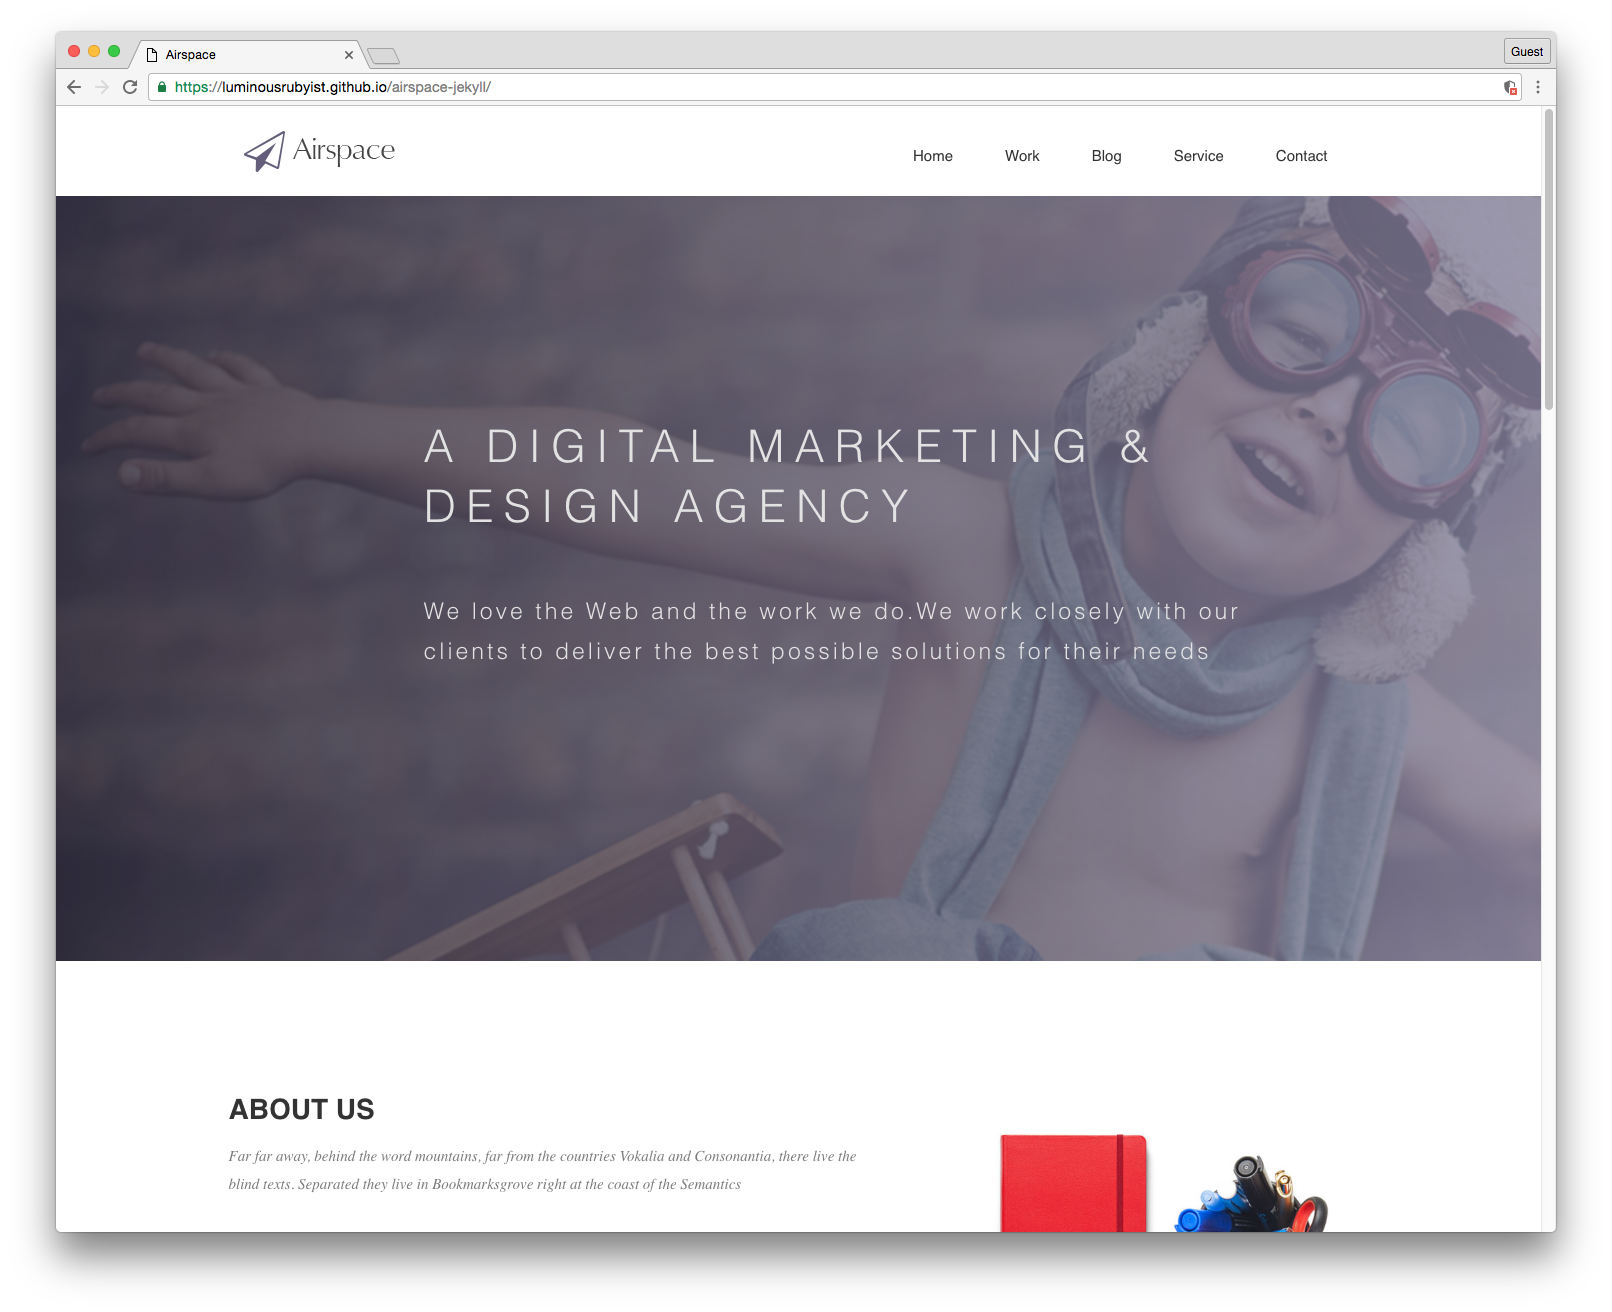
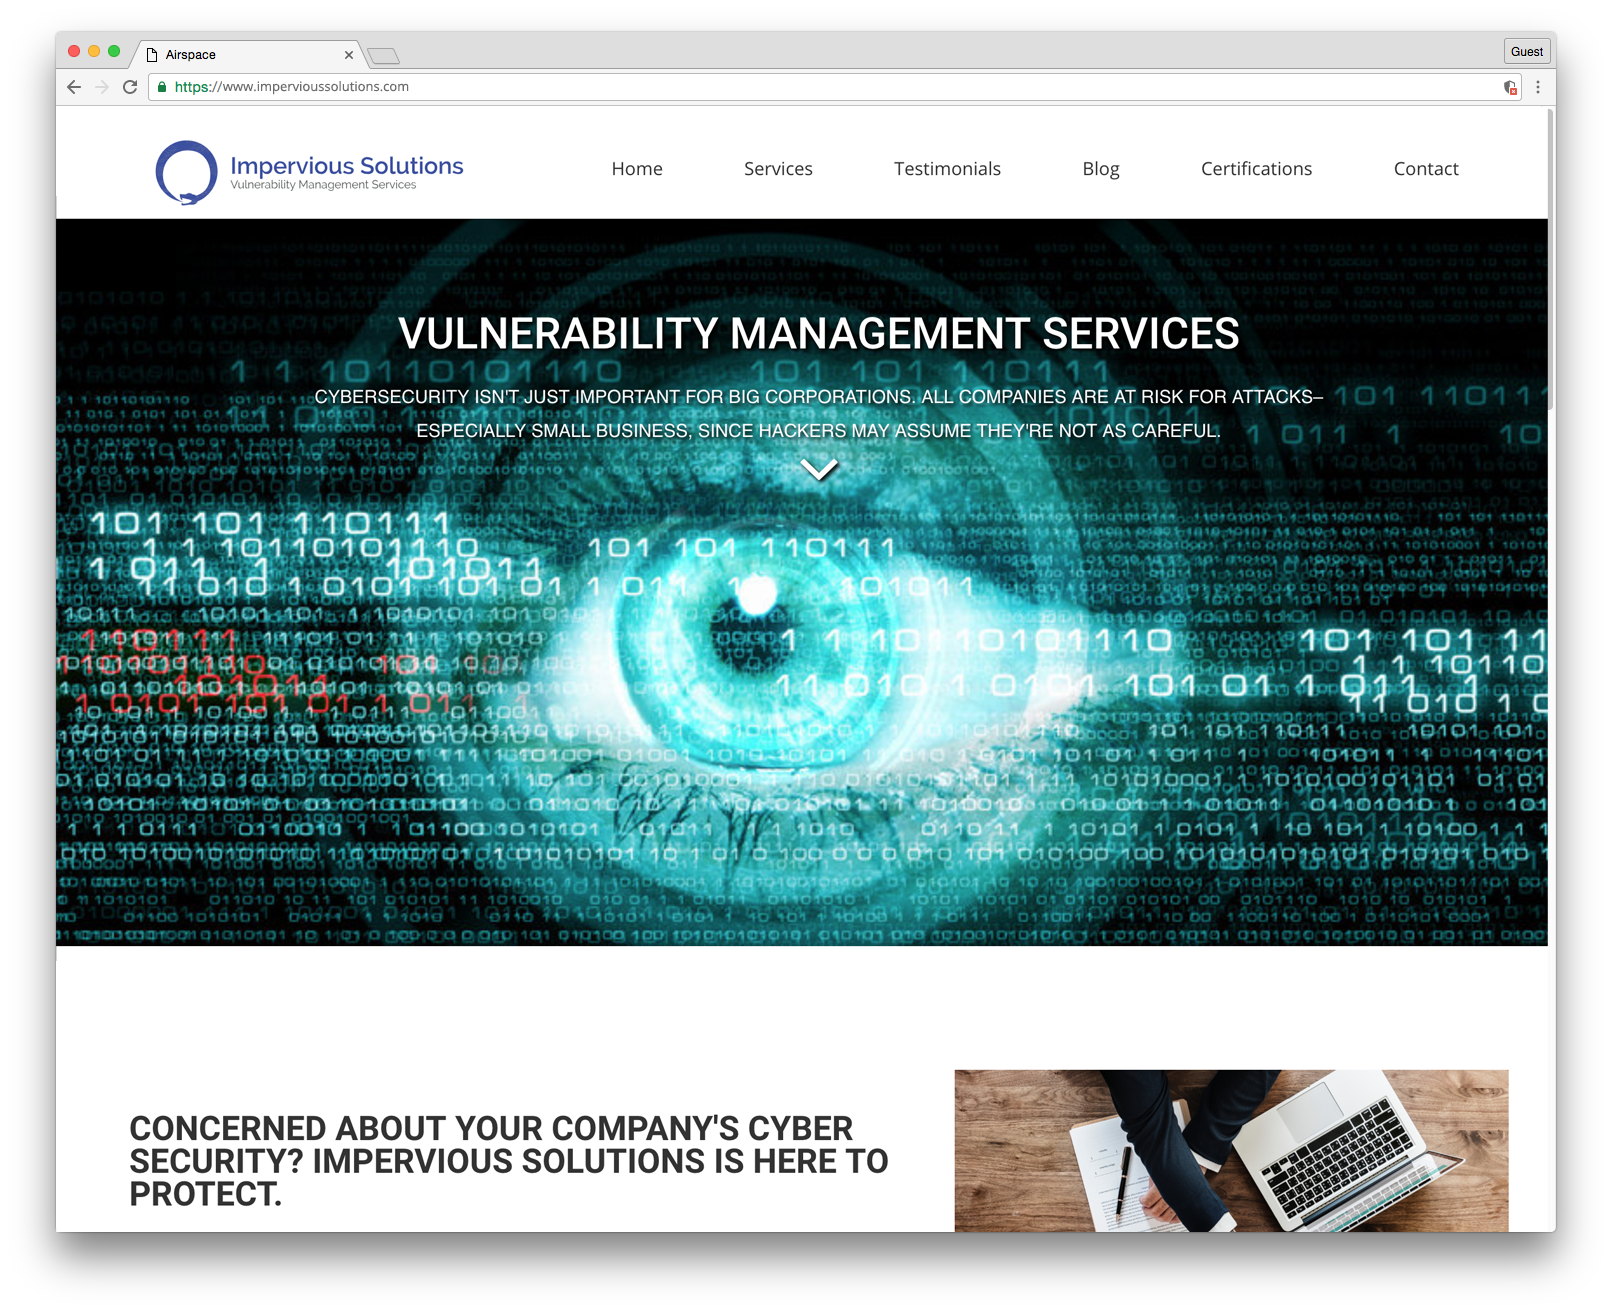
updated readme file

diff --git a/README.md b/README.md
@@ -1,12 +1,7 @@
-# _Airspace_ for Jekyll
+# Custom Jekyll Website for Impervious Solutions
 
-![screenshot](screenshots/home.png 'Description goes here')
+![screenshot](screenshots/home.png 'Custom Jeckyll website for Impervious Solutions')
 
-This Jekyll theme is a port of ThemeFisher's Airspace template. It is released under ThemeFisher's free license.
-
-## Usage
-
-To start your project, [fork this respository](https://github.com/luminousrubyist/airspace-jekyll/fork), put in your content, and go!
 
 ##Local Install and Deployment
 
@@ -14,10 +9,15 @@ To start your project, [fork this respository](https://github.com/luminousrubyis
 * bundle exec jekyll serve --watch
 * `https://help.github.com/articles/setting-up-your-github-pages-site-locally-with-jekyll/`
 
-##Local Admin
+## Local Admin and local testing
 
 * bundle exec jekyll serve --watch
 * http://localhost:4000/admin
+
+## Deploy
+
+* In your terminal run ```sh deploy.sh```
+* When asked, enter what you changed as a commit description
 
 * icons for services are ion-icons ```https://ionicons.com/```
 
